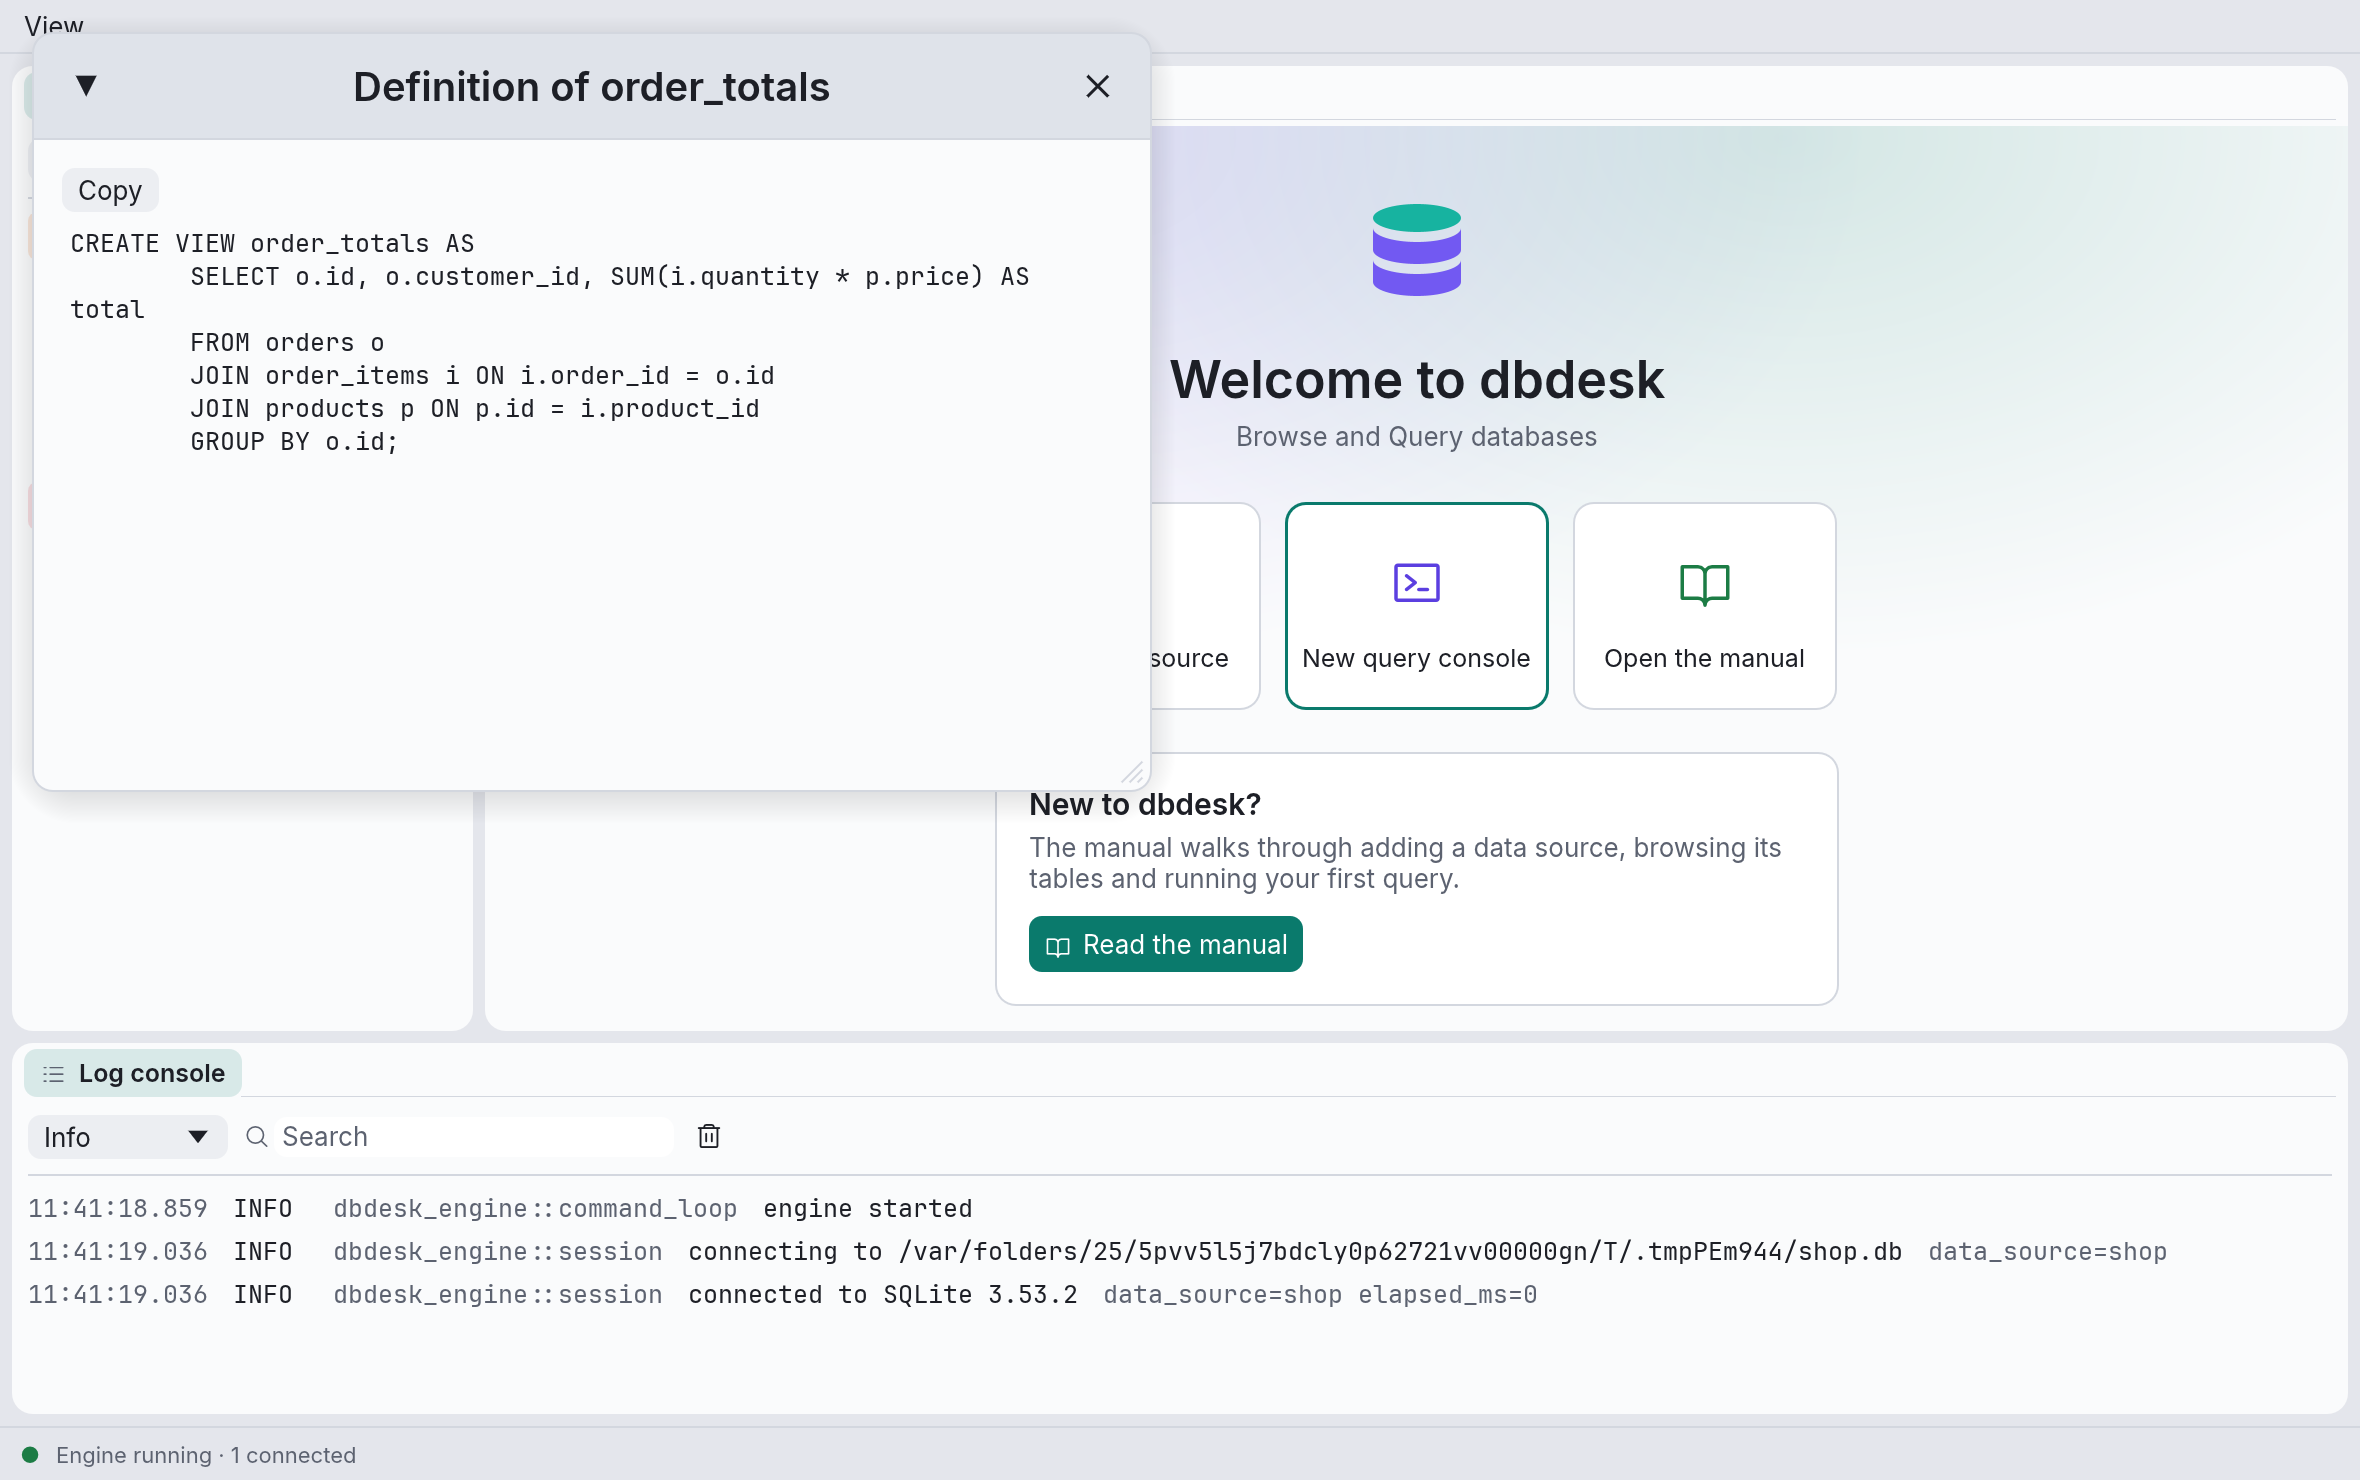
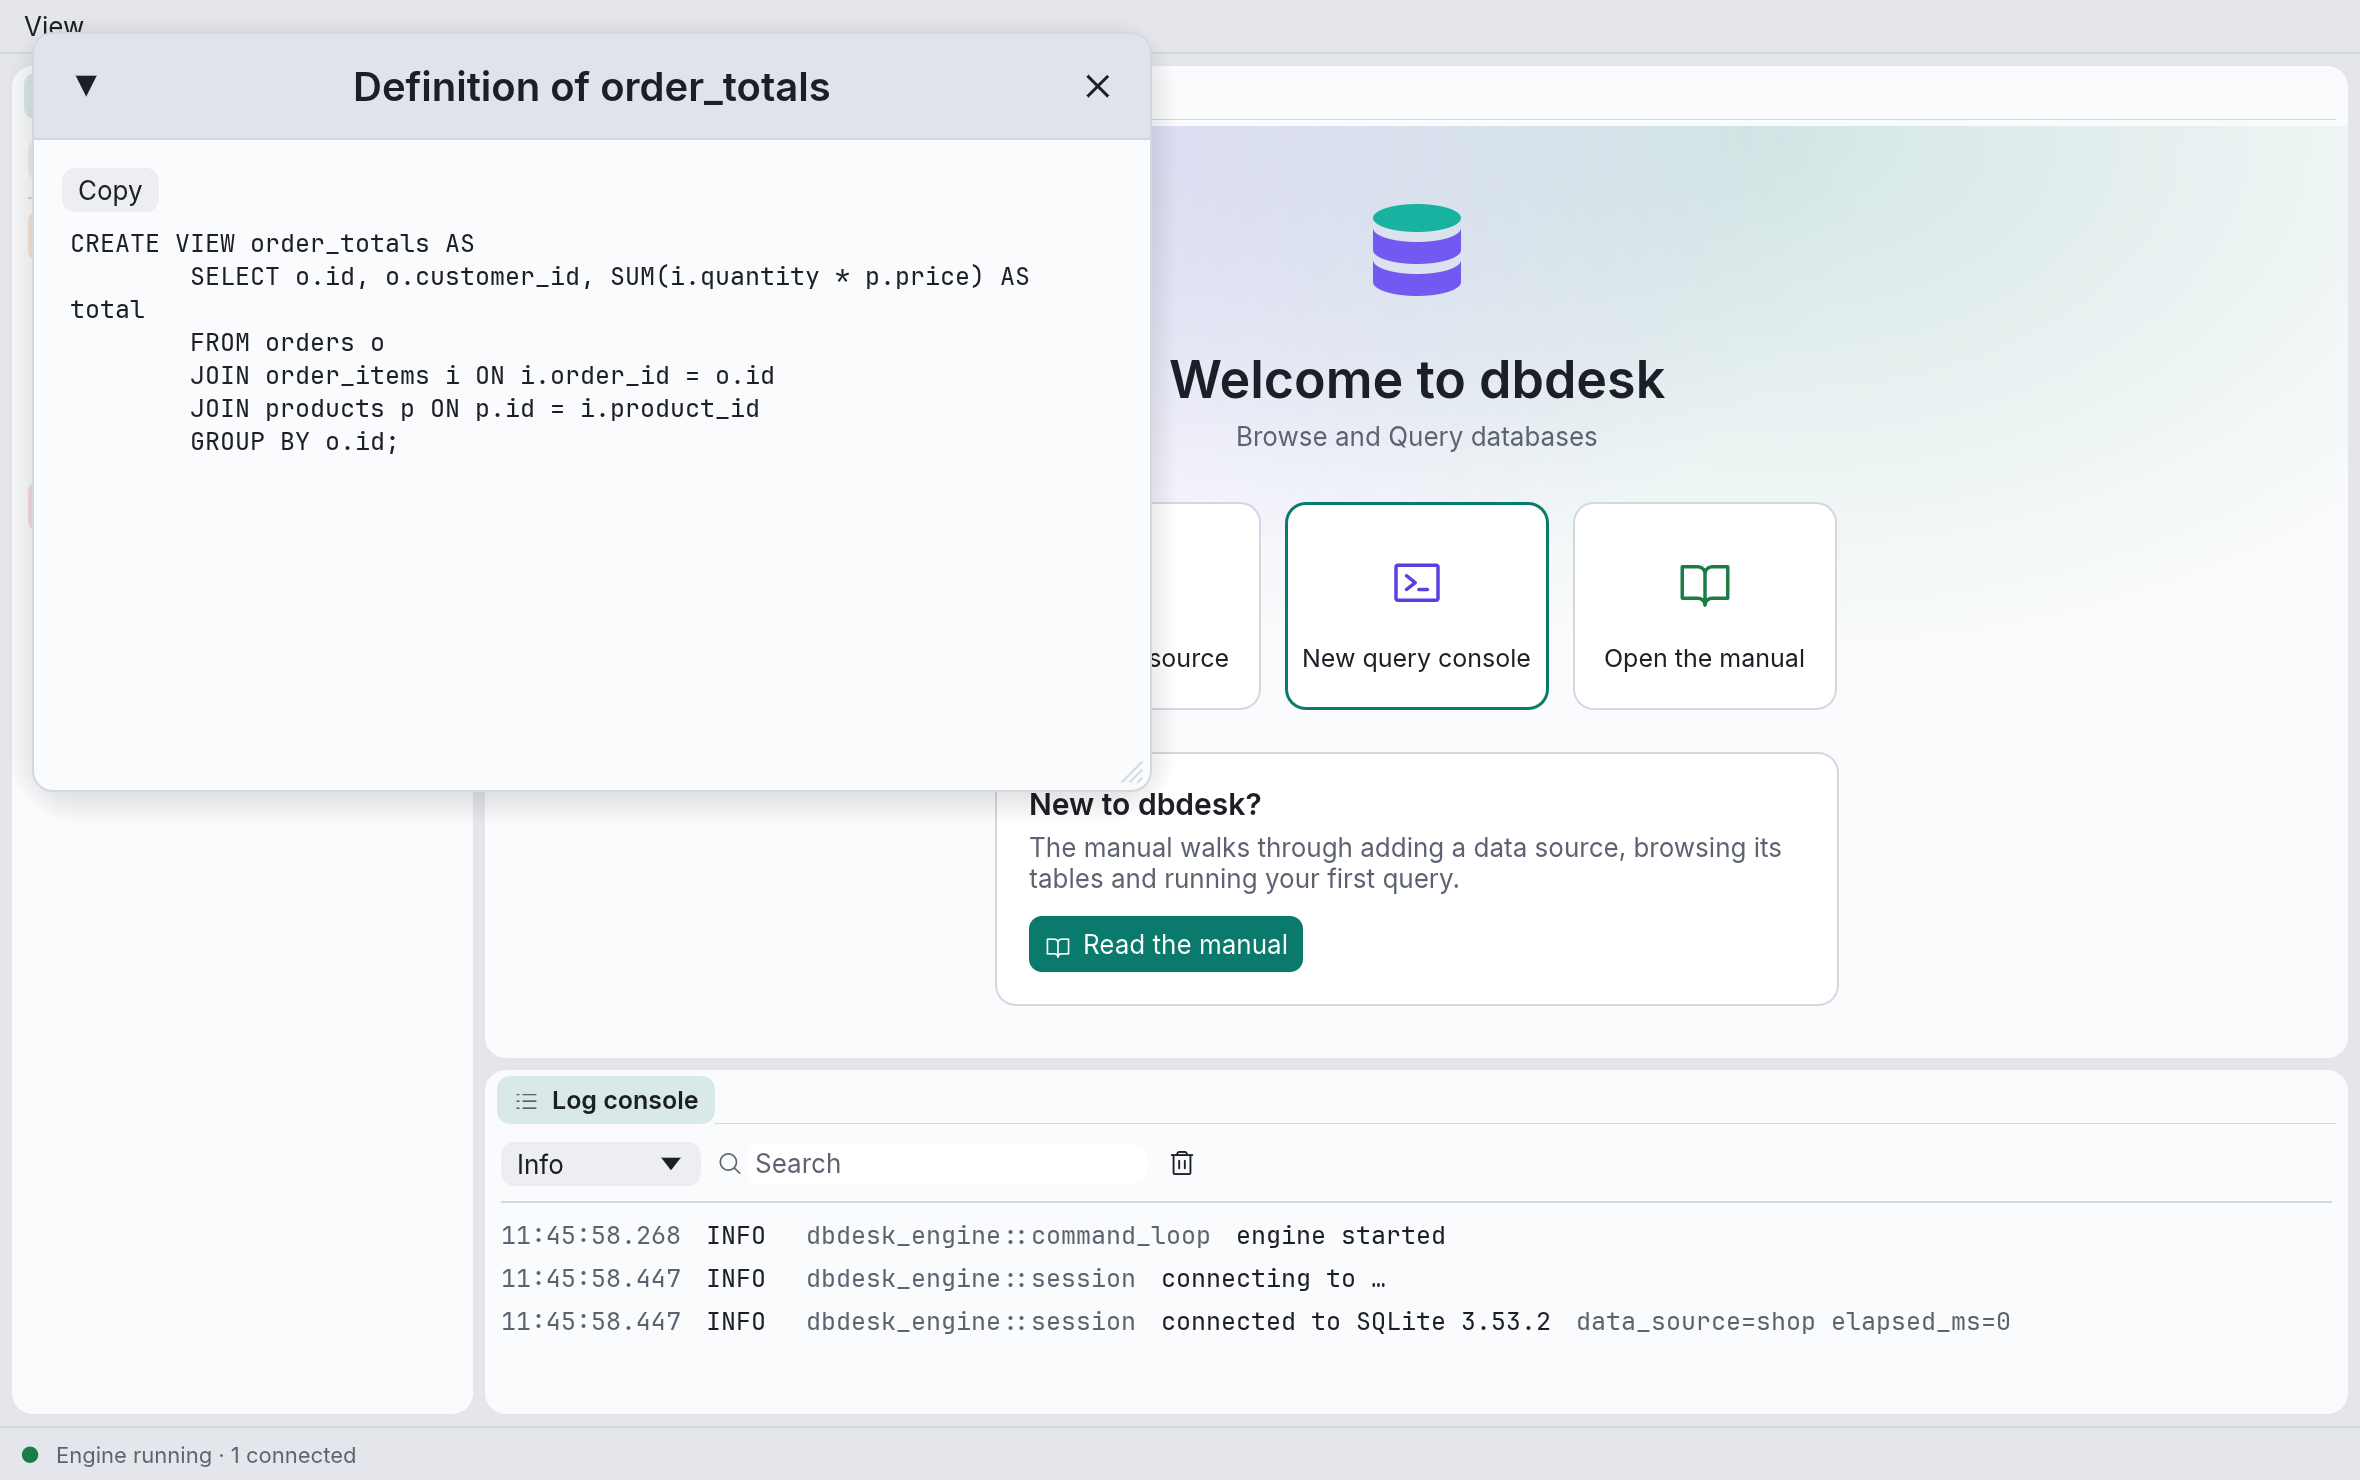
fix(app): make the explorer a column and open the first window maximized
The explorer is now a full-height column on the left, a fifth of the
width, with the consoles as the main area and the log console under them.
The layout is saved under a new key, dock_layout_v2, so layouts saved
before (some with the explorer at four fifths of the window) give way to
the new default once. The first launch maximizes the window instead of
sizing it from the monitor, whose reported size can belong to another
screen; the un-maximized default grows to 1440x900.

diff --git a/crates/dbdesk-app/src/app.rs b/crates/dbdesk-app/src/app.rs
@@ -24,7 +24,12 @@ use crate::theme::{self, Palette};
 use crate::workspace::{self, Panels, Tab};
 use crate::{fonts, icons, widgets};
 
-const LAYOUT_STORAGE_KEY: &str = "dock_layout";
+/// Where the dock layout is saved. Versioned so a change to the default layout reaches people
+/// who already have one saved: layouts under an older key are ignored once, and the default
+/// takes their place. Version 2: the explorer became a full-height column, and layouts saved
+/// before it could give the explorer four fifths of the window. Open console tabs aren't
+/// restored after a version change, but their files are, under Open saved console.
+const LAYOUT_STORAGE_KEY: &str = "dock_layout_v2";
 
 pub struct DbDeskApp {
     /// `None` once the engine has been shut down, at exit or after it stopped unexpectedly.
@@ -47,6 +52,9 @@ pub struct DbDeskApp {
     /// Asks where to export rows. The platform's save dialog, except in tests.
     pick_export_path: Box<dyn Fn(ExportFormat) -> Option<PathBuf>>,
     consoles: Consoles,
+    /// Set on first launch until the window has been asked to maximize. After that, eframe
+    /// restores whatever size the user left it at.
+    maximize_window: bool,
 }
 
 impl DbDeskApp {
@@ -55,10 +63,13 @@ impl DbDeskApp {
         log_feed: LogFeed,
         engine_config: EngineConfig,
     ) -> Result<Self, EngineError> {
-        let dock = cc
+        let saved_layout: Option<DockState<Tab>> = cc
             .storage
-            .and_then(|storage| eframe::get_value(storage, LAYOUT_STORAGE_KEY))
-            .unwrap_or_else(workspace::default_layout);
+            .and_then(|storage| eframe::get_value(storage, LAYOUT_STORAGE_KEY));
+        // No saved layout means a first launch (or a layout version change): maximize the
+        // window rather than keep the small default size.
+        let maximize_window = saved_layout.is_none();
+        let dock = saved_layout.unwrap_or_else(workspace::default_layout);
         let engine = EngineHandle::start(engine_config, EguiRepaint(cc.egui_ctx.clone()))?;
         fonts::install(&cc.egui_ctx);
         theme::install(&cc.egui_ctx);
@@ -81,6 +92,7 @@ impl DbDeskApp {
             keymap_path: None,
             keymap_window_open: false,
             consoles: Consoles::default(),
+            maximize_window,
         })
     }
 
@@ -180,6 +192,18 @@ impl DbDeskApp {
         };
         if let Err(error) = engine.send(command) {
             tracing::error!("{error}");
+        }
+    }
+
+    /// Maximizes the window, once, on first launch.
+    ///
+    /// Why not size it from the monitor: with several screens, egui reported another screen's
+    /// size than the one the window opened on (a laptop's 1512×982 for a window on a 2560×1440
+    /// display), so the window came out barely bigger and on the wrong screen. Maximizing lets
+    /// the OS fill whichever screen the window is on.
+    fn maximize_window_once(&mut self, ctx: &egui::Context) {
+        if std::mem::take(&mut self.maximize_window) {
+            ctx.send_viewport_cmd(egui::ViewportCommand::Maximized(true));
         }
     }
 
@@ -465,7 +489,8 @@ impl DbDeskApp {
 }
 
 impl eframe::App for DbDeskApp {
-    fn logic(&mut self, _ctx: &egui::Context, _frame: &mut eframe::Frame) {
+    fn logic(&mut self, ctx: &egui::Context, _frame: &mut eframe::Frame) {
+        self.maximize_window_once(ctx);
         self.drain_engine_events();
         self.log_console.drain();
     }

diff --git a/crates/dbdesk-app/src/workspace.rs b/crates/dbdesk-app/src/workspace.rs
@@ -26,14 +26,14 @@ const TAB_TITLE_SIZE: f32 = 12.5;
 /// The band in a console's data source colour along the top of the console.
 const SOURCE_BAND_HEIGHT: f32 = 2.0;
 
-/// Share of the window height for the explorer and query consoles; the log console gets the
-/// rest, spanning the full width as DataGrip's bottom tool windows do.
-const UPPER_AREA_SHARE: f32 = 0.72;
-/// Share of the upper area's width for query consoles; the explorer gets the rest.
-const CONSOLES_SHARE_OF_UPPER_AREA: f32 = 0.8;
+/// Share of the window's width for the explorer, a full-height column on the left. The rest
+/// is the main area, where consoles run, with the log console underneath.
+///
 /// egui_dock's split `fraction` is the share of the first (left or top) node, whatever its
-/// docs say about "the old node", so consoles to the right of the explorer take the rest.
-const EXPLORER_SHARE_OF_UPPER_AREA: f32 = 1.0 - CONSOLES_SHARE_OF_UPPER_AREA;
+/// docs say about "the old node".
+const EXPLORER_SHARE: f32 = 0.2;
+/// Share of the main area's height for the consoles; the log console gets the rest.
+const CONSOLES_SHARE_OF_MAIN_AREA: f32 = 0.75;
 
 /// Every kind of tab the dock can hold.
 ///
@@ -82,13 +82,10 @@ pub fn open_console_tab(layout: &mut DockState<Tab>, key: ConsoleKey) {
     let tree = layout.main_surface_mut();
     match tree.find_tab_from(|tab| matches!(tab, Tab::QueryConsole(_) | Tab::Welcome)) {
         Some((node, _)) => tree[node].append_tab(tab.clone()),
-        // The consoles' area was closed; give them a new one beside everything else.
+        // The consoles' area was closed; give them a new one beside everything else, taking
+        // what the main area would.
         None => {
-            tree.split_right(
-                NodeIndex::root(),
-                EXPLORER_SHARE_OF_UPPER_AREA,
-                vec![tab.clone()],
-            );
+            tree.split_right(NodeIndex::root(), EXPLORER_SHARE, vec![tab.clone()]);
         }
     }
     if let Some(path) = layout.find_tab(&tab) {
@@ -100,12 +97,12 @@ pub fn open_console_tab(layout: &mut DockState<Tab>, key: ConsoleKey) {
 pub fn default_layout() -> DockState<Tab> {
     let mut dock = DockState::new(vec![Tab::Welcome]);
     let tree = dock.main_surface_mut();
-    let [upper_area, _log_console] =
-        tree.split_below(NodeIndex::root(), UPPER_AREA_SHARE, vec![Tab::LogConsole]);
-    tree.split_left(
-        upper_area,
-        EXPLORER_SHARE_OF_UPPER_AREA,
-        vec![Tab::Explorer],
+    let [main_area, _explorer] =
+        tree.split_left(NodeIndex::root(), EXPLORER_SHARE, vec![Tab::Explorer]);
+    tree.split_below(
+        main_area,
+        CONSOLES_SHARE_OF_MAIN_AREA,
+        vec![Tab::LogConsole],
     );
     dock
 }
@@ -274,6 +271,18 @@ fn source_band(ui: &mut Ui, color: Color32) {
 #[cfg(test)]
 mod tests {
     use super::*;
+
+    #[test]
+    fn explorer_is_a_column_beside_the_consoles_and_the_log_console() {
+        let dock = default_layout();
+        let tree = dock.main_surface();
+        let tabs_at = |node: NodeIndex| tree[node].tabs().unwrap_or_default().to_vec();
+        let main_area = NodeIndex::root().right();
+
+        assert_eq!(tabs_at(NodeIndex::root().left()), [Tab::Explorer]);
+        assert_eq!(tabs_at(main_area.left()), [Tab::Welcome]);
+        assert_eq!(tabs_at(main_area.right()), [Tab::LogConsole]);
+    }
 
     #[test]
     fn default_layout_has_every_tab_once() {

diff --git a/crates/dbdesk-app/src/main.rs b/crates/dbdesk-app/src/main.rs
@@ -41,7 +41,7 @@ use dbdesk_store::{
 use crate::app::DbDeskApp;
 
 /// Also the size UI tests run at, so they see the layout a new user sees.
-const DEFAULT_WINDOW_SIZE: [f32; 2] = [1280.0, 800.0];
+const DEFAULT_WINDOW_SIZE: [f32; 2] = [1440.0, 900.0];
 
 fn main() -> anyhow::Result<()> {
     let paths = AppPaths::discover()

diff --git a/docs/testing.md b/docs/testing.md
@@ -63,8 +63,9 @@ against a real server, such as a cancel arriving after the last row.
   is drawn on, in both themes, for WCAG AA contrast (4.5:1).
 
 Hard-learned from the M4 UI tests: `egui_kittest` clicks at the centre of a widget's last
-known rectangle. The app tests run in a window of the app's default size, 1280×800, because
-egui_kittest's own 800×600 is too narrow for the console with the bundled fonts. A widget laid
+known rectangle. The app tests run in a window of the app's default size (`DEFAULT_WINDOW_SIZE`,
+1440×900), because egui_kittest's own 800×600 is too narrow for the console with the bundled
+fonts. A widget laid
 out off-screen, or covered by another one that egui hit-tests first, simply doesn't get the
 click, and the test only notices when the expected effect never happens. When a click seems
 ignored, print the widget's rect and egui's `interaction_snapshot` before suspecting the code

diff --git a/book/src/introduction.md b/book/src/introduction.md
@@ -11,10 +11,10 @@ export the results, and edit rows.
 
 The window has three areas, which you can drag around and resize:
 
-- **Explorer**, on the left: your saved connections ("data sources") and, under each, its
-  databases, schemas, tables and so on.
-- **Consoles**, on the right: the Welcome tab and one tab per query console.
-- **Log console**, along the bottom: what dbdesk is doing — connections opening and closing,
+- **Explorer**, a column down the left: your saved connections ("data sources") and, under
+  each, its databases, schemas, tables and so on.
+- **Consoles**, the main area on the right: the Welcome tab and one tab per query console.
+- **Log console**, under the consoles: what dbdesk is doing — connections opening and closing,
   queries running and how long they took, errors.
 
 The thin bar at the very bottom shows whether dbdesk's background engine is running and how

diff --git a/book/src/install.md b/book/src/install.md
@@ -42,7 +42,7 @@ things to do:
   one.
 - **Open the manual** — opens this manual in your browser.
 
-The log console at the bottom shows `engine started`, and the status bar reads
+The log console under the Welcome tab shows `engine started`, and the status bar reads
 `Engine running · 0 connected`. If it says the engine is stopped, see
 [Troubleshooting](troubleshooting.md).
 
@@ -52,6 +52,8 @@ dbdesk follows your system's light or dark setting. To choose one yourself, open
 **View → Theme** and pick **Match system**, **Light** or **Dark**. The choice is remembered.
 
 ## The layout
+
+dbdesk opens maximized the first time; after that it remembers the window's size and position.
 
 Every panel is a tab you can drag: onto another panel's tab bar to join it, or onto the edge of
 a panel to split it. Drag the gaps between panels to resize them. dbdesk remembers the layout

diff --git a/book/src/troubleshooting.md b/book/src/troubleshooting.md
@@ -2,7 +2,7 @@
 
 ## Where to look first
 
-The **log console** at the bottom of the window shows what dbdesk did and what went wrong, with
+The **log console**, under the consoles, shows what dbdesk did and what went wrong, with
 the newest entries at the bottom. The drop-down on its left picks how much detail to show
 (Error, Warn, Info, Debug, Trace); the search box filters entries by text; the bin icon clears
 the list. It keeps the latest 10,000 entries.
